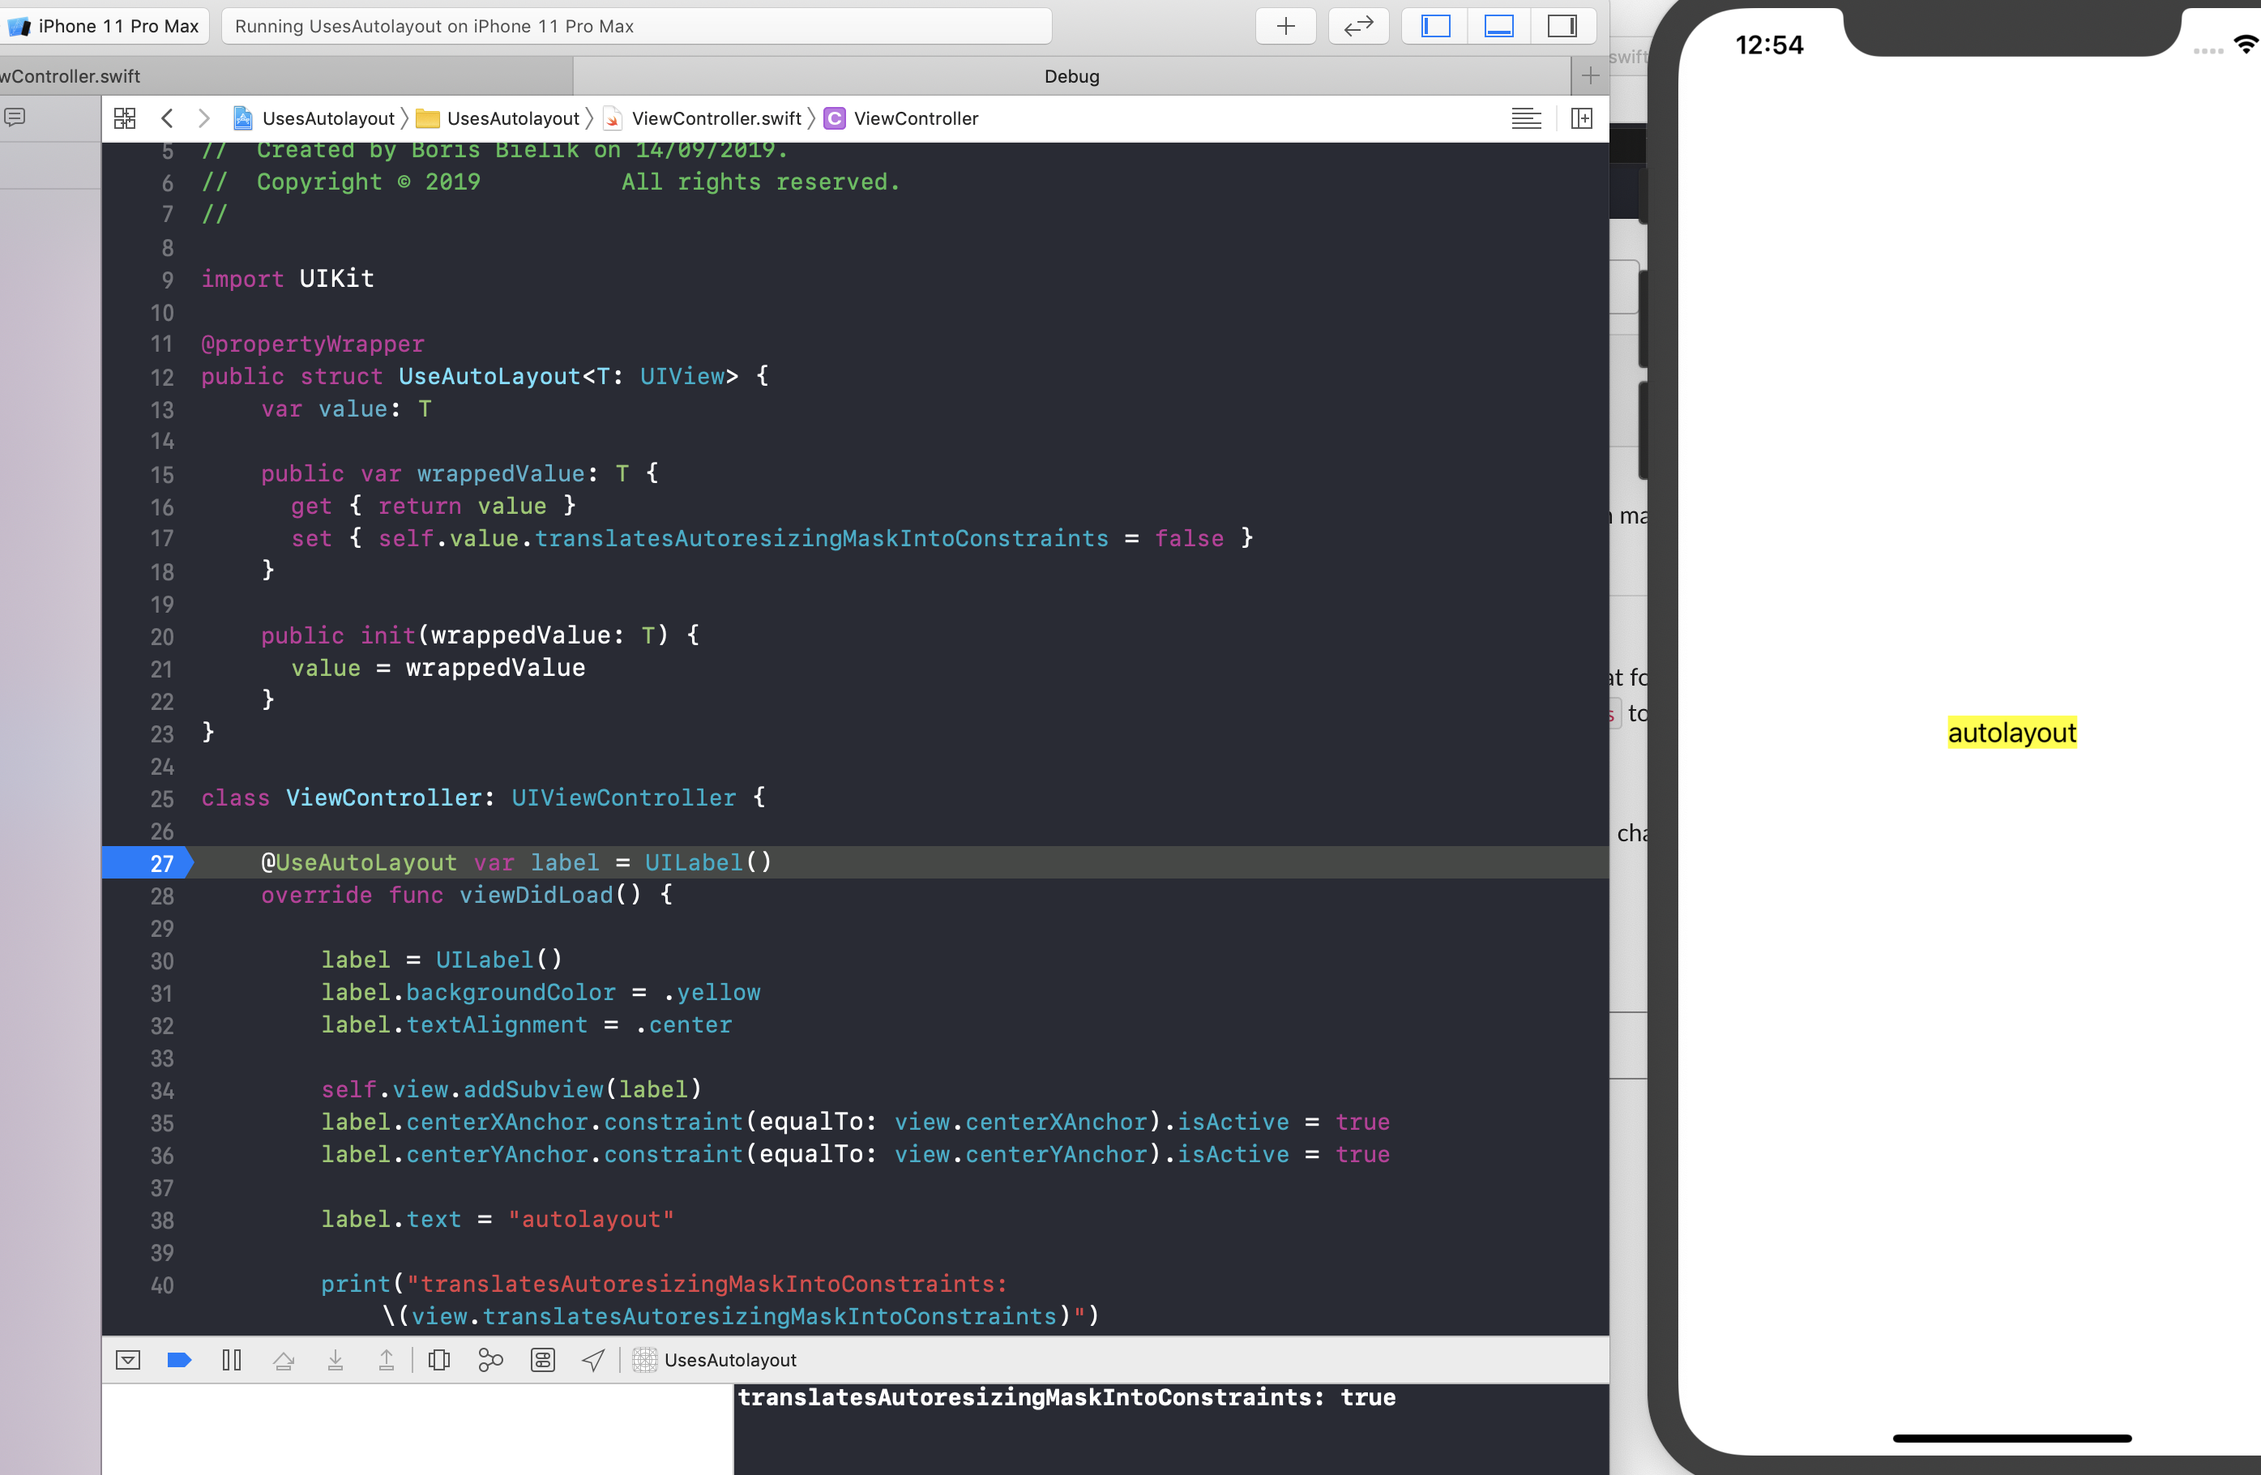
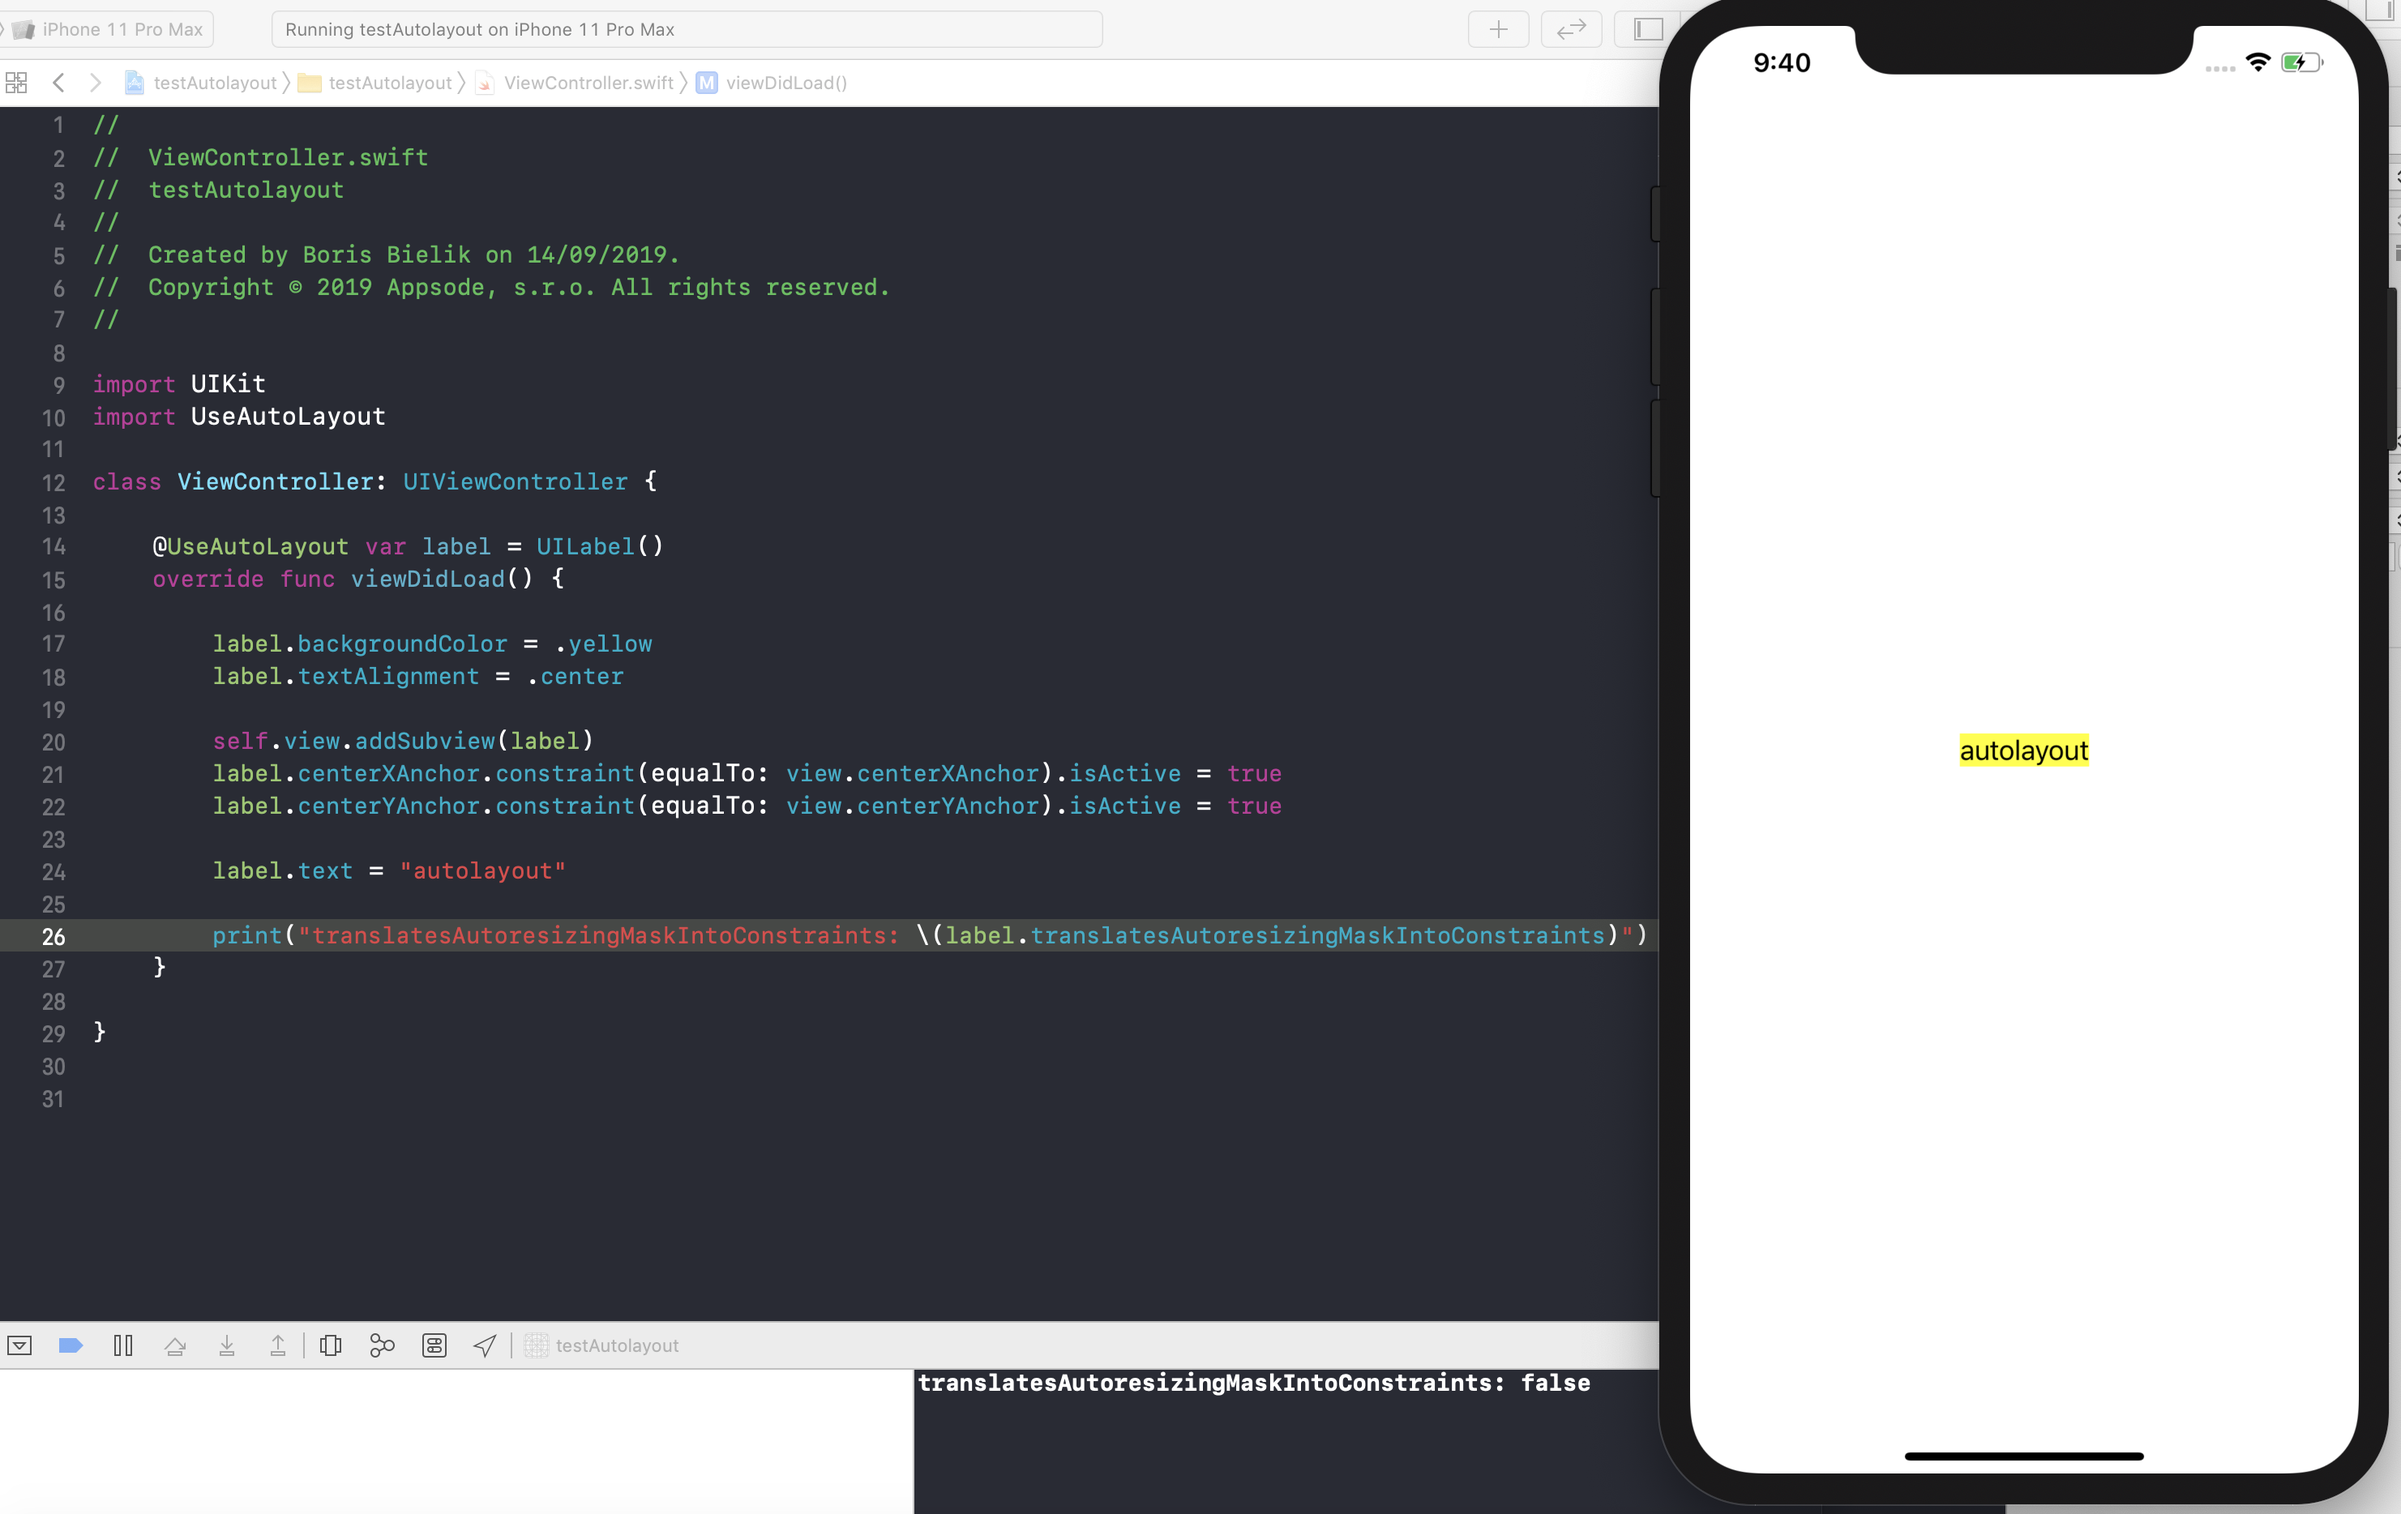
Update README.md + asset with updated version of @property wrapper

diff --git a/README.md b/README.md
@@ -8,18 +8,21 @@ Property wrapper that enables autolayout on applied views.
 ```
 @propertyWrapper
 public struct UseAutoLayout<T: UIView> {
-    var value: T
-
     public var wrappedValue: T {
-      get { return value }
-      set { self.value.translatesAutoresizingMaskIntoConstraints = false }
+        didSet {
+            setAutoLayout()
+        }
     }
 
     public init(wrappedValue: T) {
-      value = wrappedValue
+        self.wrappedValue = wrappedValue
+        setAutoLayout()
+    }
+
+    func setAutoLayout() {
+        wrappedValue.translatesAutoresizingMaskIntoConstraints = false
     }
 }
-
 ```
 
 # Usage
